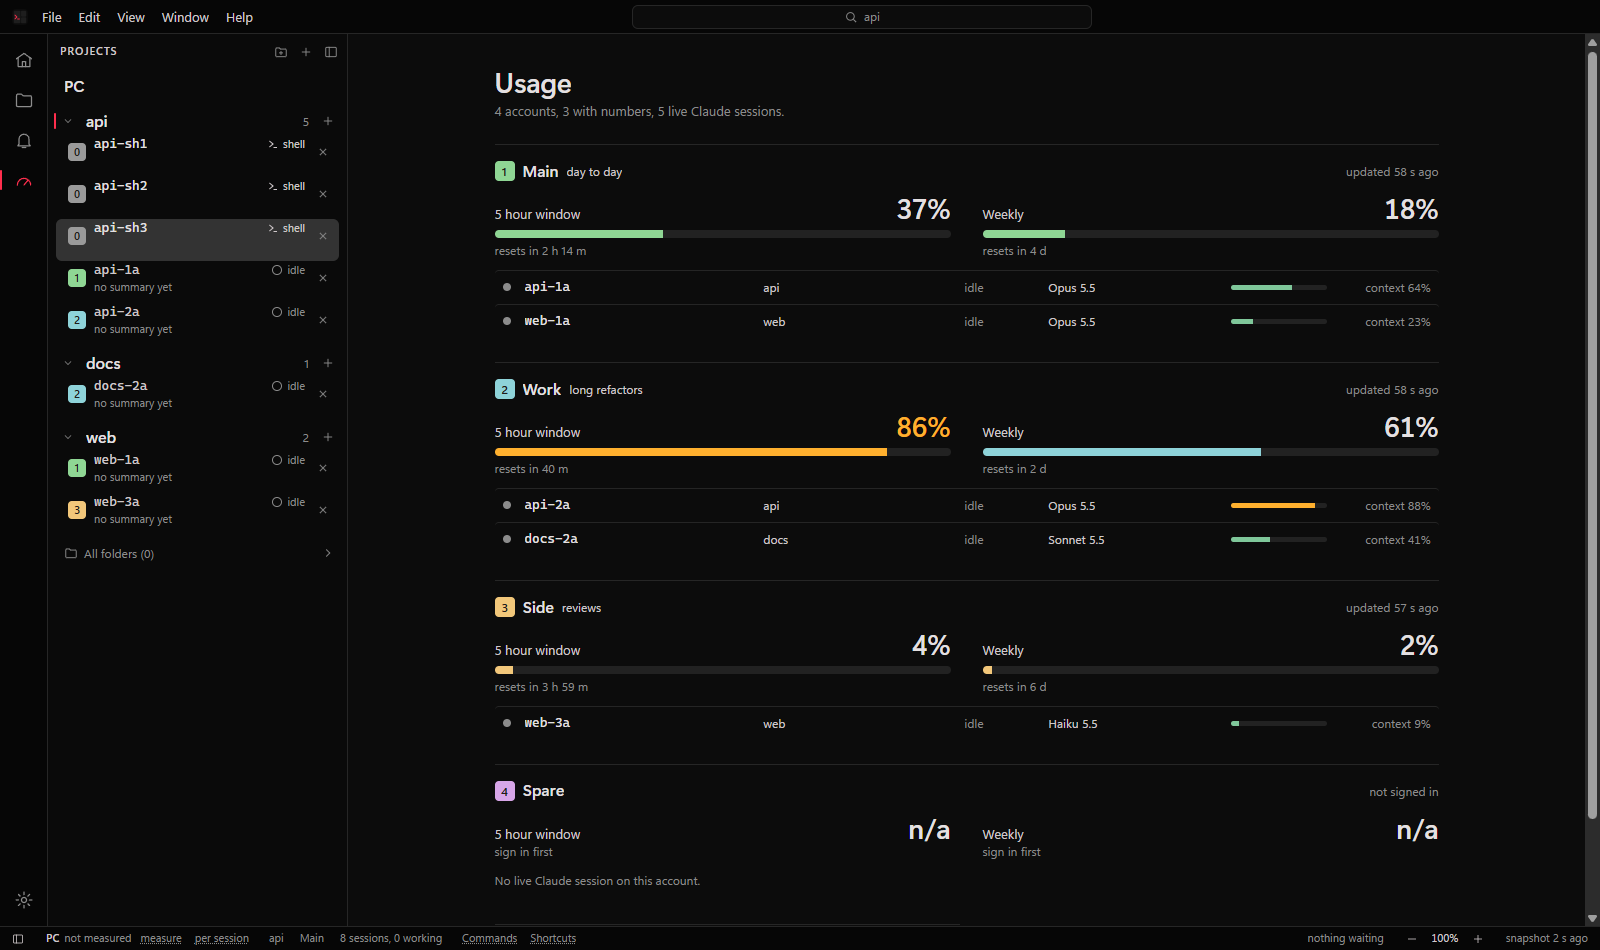
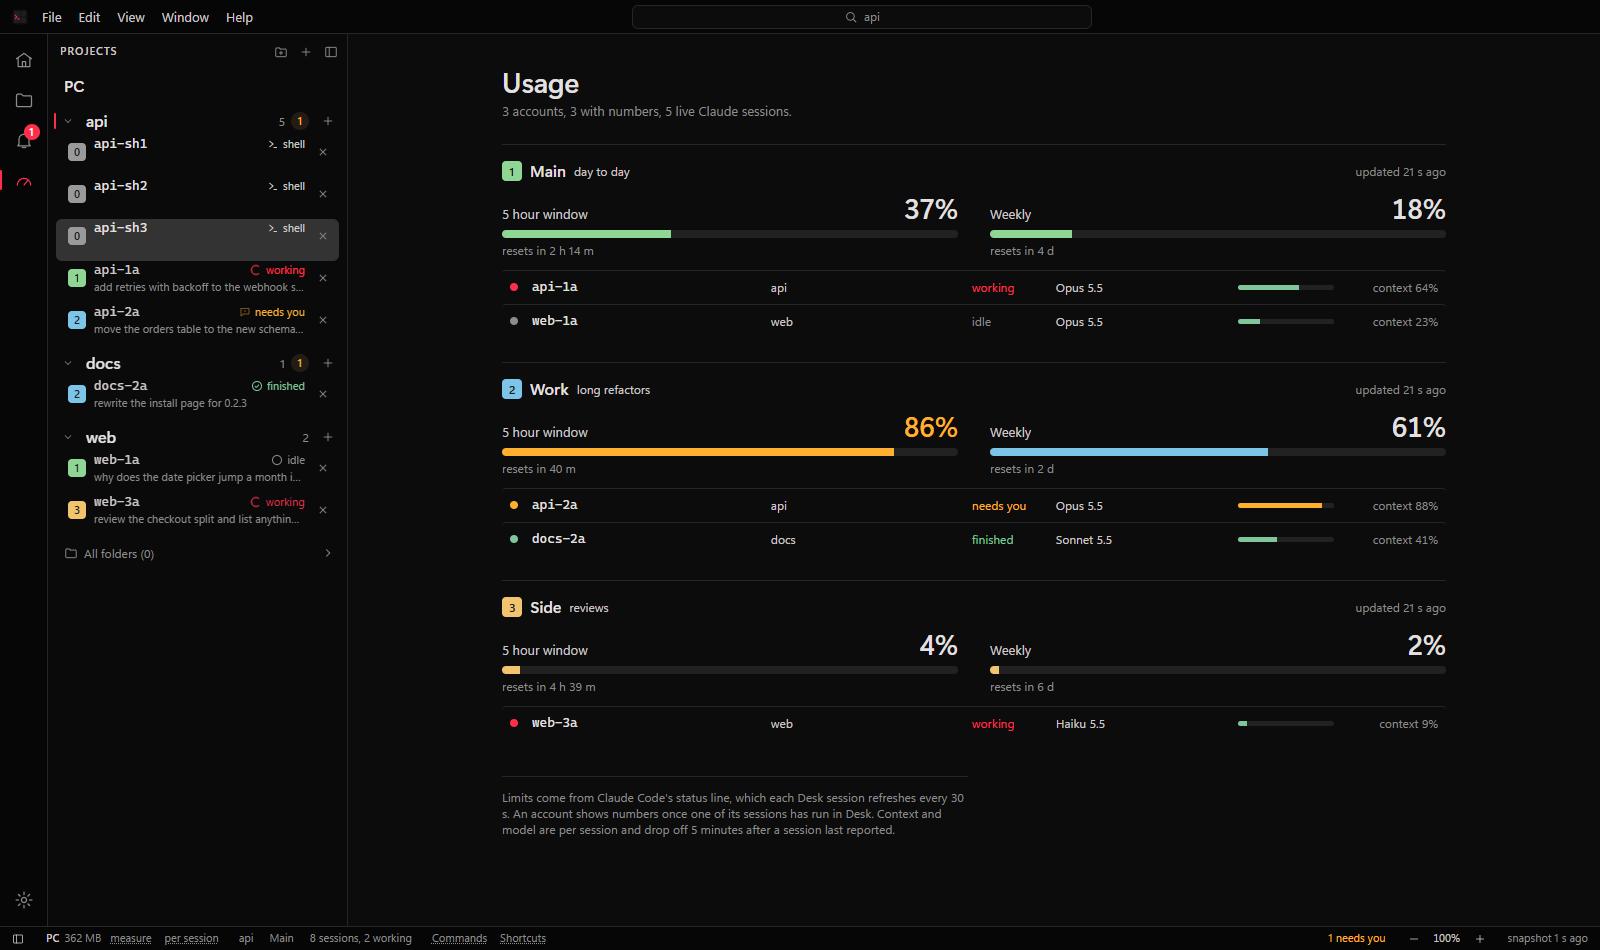
readme: hero, usage shots and demo with session states and the last ask
The pictures still showed "no summary yet" under every session, from before 0.2.3 put the
state and the last ask on each row. Reshot on a bench Desk from bd03a9d with stand-in sessions,
same layout and numbers as before. The old images moved to docs/img/_archive. The site's
one minute tour video and the delete shot are not redone here.

diff --git a/docs/index.html b/docs/index.html
@@ -60,7 +60,7 @@
     window marks it "in window 2".</p>
     <p><a href="guide.html#panes">Panes</a> and <a href="guide.html#windows">windows</a> in the guide.</p>
   </div>
-  <figure><img src="img/tour/panes.png" width="1600" height="950" loading="lazy" alt="Three PowerShell panes in one project: git log, the test run with 36 passing, and a diff stat"></figure>
+  <figure><img src="img/tour/panes.png" width="1600" height="950" loading="lazy" alt="Three PowerShell panes in one project: git log, the test run with 41 passing, and a diff stat, beside a sidebar where each session shows working, needs you, finished or idle and the last thing asked of it"></figure>
 </section>
 
 <section class="feature wrap" id="accounts">
@@ -80,7 +80,7 @@
     every live Claude session on it with its model and how full its context is. The numbers come
     from Claude Code's status line, so reading them costs no tokens and makes no network calls.</p>
   </div>
-  <figure><img src="img/tour/usage.png" width="1600" height="950" loading="lazy" alt="The Usage page: Main at 37 percent of its five hour limit, Work at 86 percent in amber, Side at 4 percent, Spare not signed in"></figure>
+  <figure><img src="img/tour/usage.png" width="1600" height="950" loading="lazy" alt="The Usage page: Main at 37 percent of its five hour limit, Work at 86 percent in amber, Side at 4 percent, each with its live sessions, model and context"></figure>
 </section>
 
 <section class="feature wrap" id="needs-you">

diff --git a/README.md b/README.md
@@ -14,13 +14,17 @@
 
 </div>
 
-Your projects are listed on the left, real `claude` terminals sit in tabs in the middle, and
-you can show one to eight panes at once, in as many windows as you like. Sessions can belong
-to different Claude accounts. Desk starts, shows, hides, stops and resumes them. It does not
-wrap the chat, edit your files or show git. The terminal is Claude Code itself; Desk puts a
-frame around it.
+Every session in every project says whether it is working, needs you, finished or idle, with
+the last thing you asked it underneath. When one stops to ask you something you get a Windows
+notification and a taskbar flash, so you can leave five running and only look when one wants
+you. Sessions can belong to different Claude accounts, and the Usage page shows every
+account's limits side by side.
 
-![Three accounts across three projects: a session turns to needs you, then the Usage page shows each account's limits and one of them climbing](docs/img/demo-readme.gif)
+The terminals are Claude Code itself, in tabs and one to eight panes, in as many windows as
+you like. Desk does not wrap the chat, edit your files or show git; it puts a frame around the
+real `claude`.
+
+![Three accounts across three projects: web-3a finishes its turn, web-1a starts a new one, the Usage page shows each account's limits, then api-1a stops to ask](docs/img/demo-readme.gif)
 
 Claude Desk is an independent project. It is not made by or affiliated with Anthropic.
 
@@ -64,7 +68,7 @@ that app. Desk is for running several accounts at once and watching their limits
 The sidebar holds every project you work in, each as its own section, so one window covers all
 of them.
 
-![Three projects in the sidebar: two sessions working, two that need you, and api open in three panes](docs/img/overview-1600.png)
+![Three projects in the sidebar, each session with its state and the last thing asked of it: two working, one needs you, one finished, one idle, and api open in three panes](docs/img/overview-1600.png)
 
 - **Where projects come from.** Desk finds your projects folder (`~\Projects` and a few usual
   names, or `DESK_PROJECTS`). A project gets a section once it has a session or you add it. **All folders**
@@ -84,9 +88,9 @@ of them.
   section under the PC's.
 
 Ctrl+P jumps to any project or session by name, and Ctrl+B hides the sidebar when you want the
-room. The picture at the top shows three projects (`api`, `docs`, `web`) with `api` open in
-three panes. Two sessions are working and two need you, and the badge on `api` and `docs`
-counts the ones waiting.
+room. The picture above shows three projects (`api`, `docs`, `web`) with `api` open in three
+shell panes. `api-1a` and `web-3a` are working, `api-2a` needs you, `docs-2a` has finished
+and `web-1a` is idle; the badges on `api` and `docs` count the ones waiting on you.
 
 ## Usage limits
 
@@ -150,9 +154,6 @@ session is resumed after Desk was closed in the middle of a turn, an optional on
 Usage limits (five-hour and seven-day, or cost this month for API-key accounts) come from the
 status line Desk gives its own sessions, so they cost no tokens and make no network calls. If
 an account already has its own `statusLine`, Desk leaves it alone and shows no usage for it.
-The Usage page (the gauge in the activity bar, or View > Usage) lists every account with both
-limits and when they reset, then each live Claude session on it with its model and how full its
-context is.
 
 </details>
 
